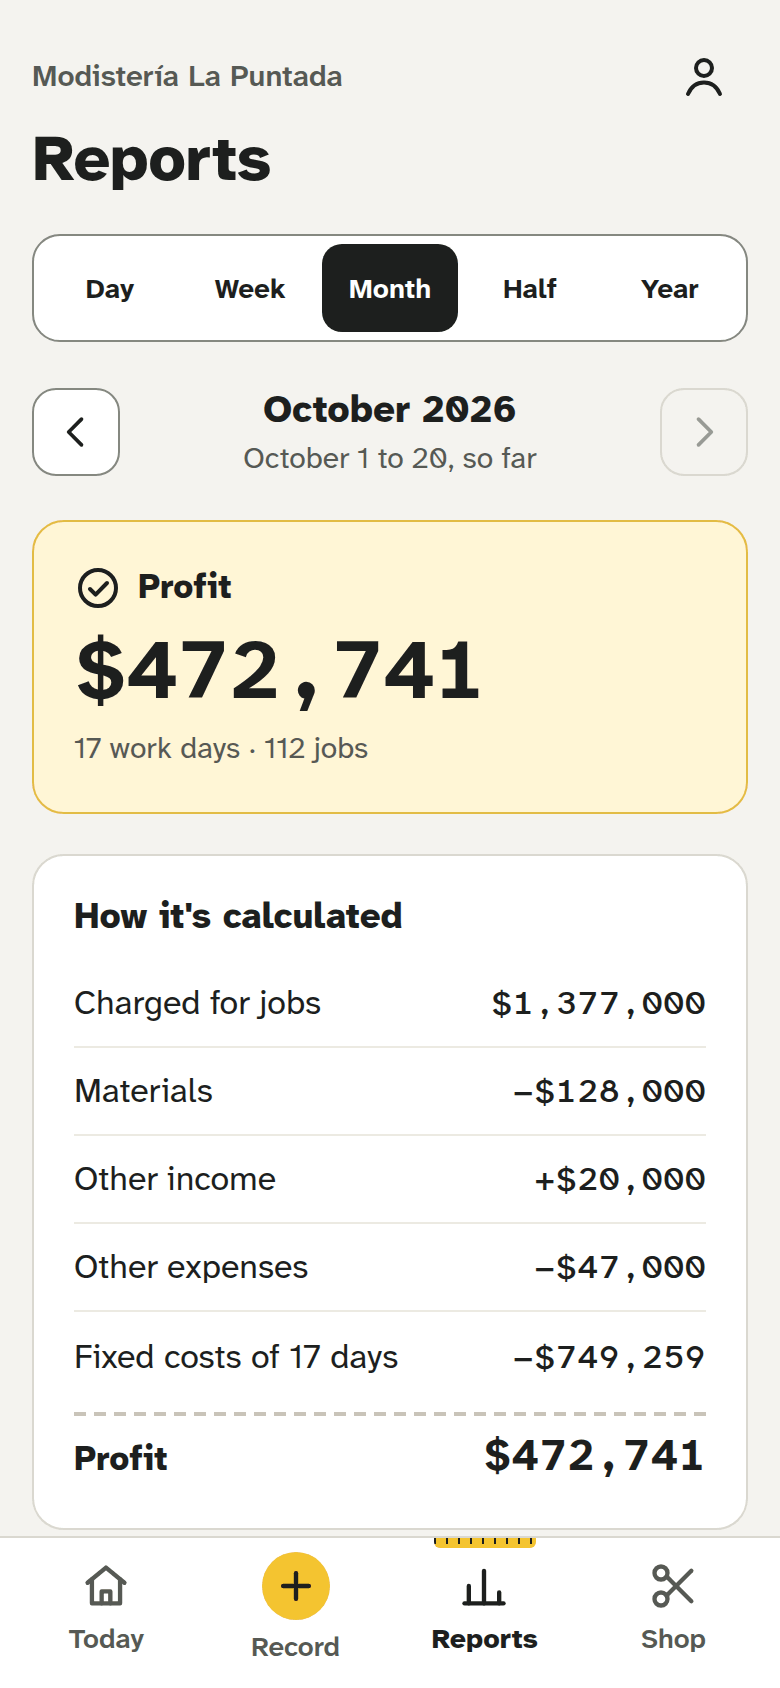
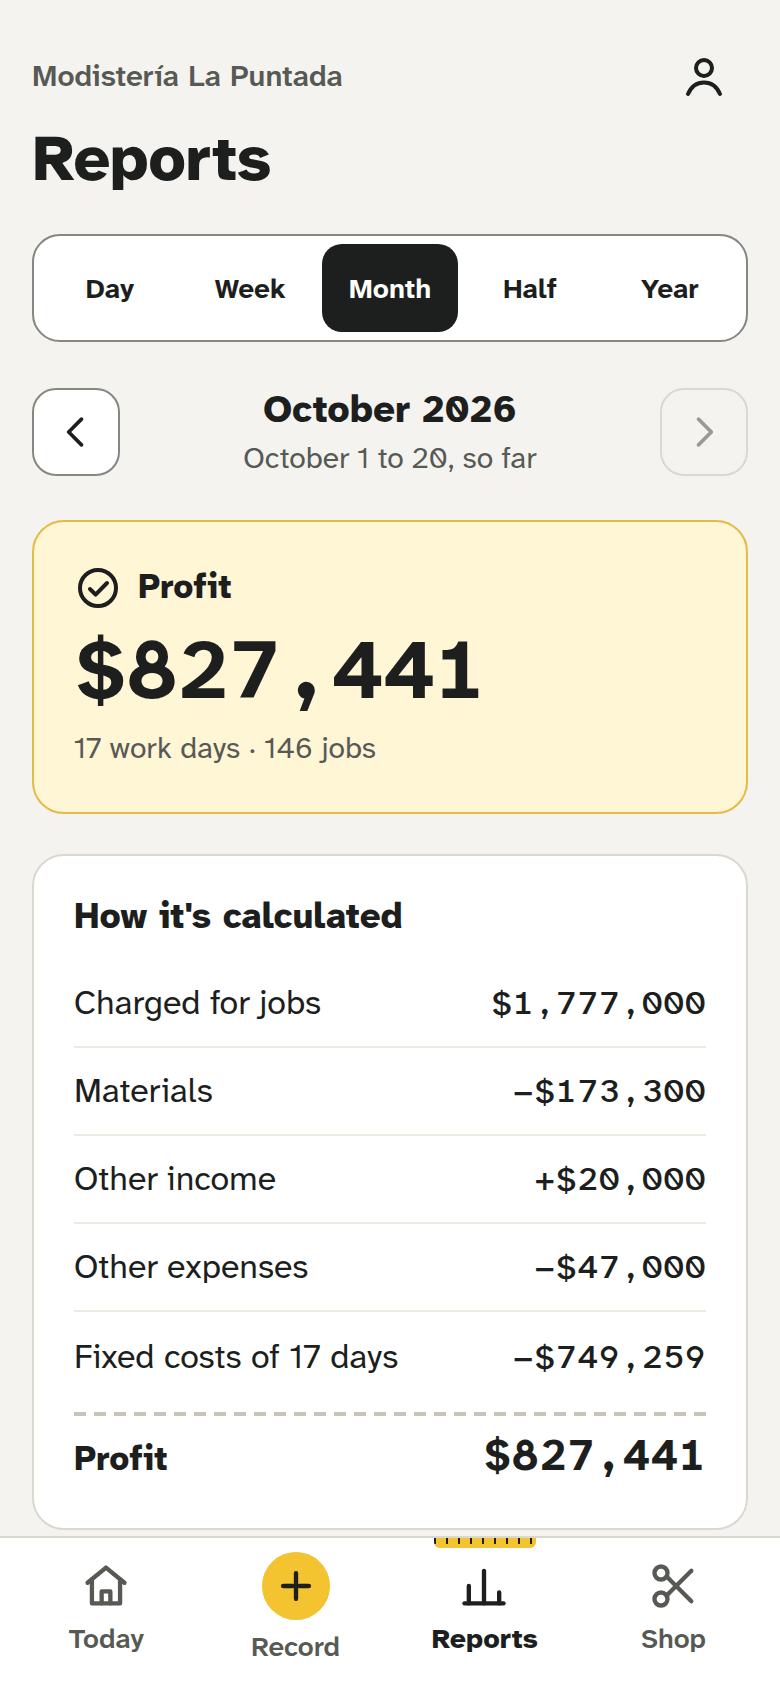
Explain advances in the README, and retake the Reports screenshot their jobs change

diff --git a/README.md b/README.md
@@ -1,11 +1,11 @@
 # Tailor Shop Ledger
 
-A Ruby on Rails app that shows small tailoring and alteration shops whether their work pays. A shop records the services it offers, with their price and material cost; the jobs it charges for, and the orders customers pay for in parts; its fixed costs, occasional expenses and other income. The app turns that into a goal for the day and results by day, week, month, semester and year.
+A Ruby on Rails app that shows small tailoring and alteration shops whether their work pays. A shop records the services it offers, with their price and material cost; the jobs it charges for, the orders customers pay for in parts, and the advances some customers pay up front; its fixed costs, occasional expenses and other income. The app turns that into a goal for the day and results by day, week, month, semester and year.
 
 <p align="center">
   <img src="docs/screenshots/today.png" width="24%" alt="Today: the day's goal on a strip of tape measure, $32,400 made of the $44,074 the fixed costs need today, and what's left to go">
   <img src="docs/screenshots/record.png" width="24%" alt="Record: a job, an order, an expense or other income; here a job's date and its service, picked from the shop's list with its price">
-  <img src="docs/screenshots/reports.png" width="24%" alt="Reports: October so far, a profit of $472,741, and how it's calculated line by line">
+  <img src="docs/screenshots/reports.png" width="24%" alt="Reports: October so far, a profit of $827,441, and how it's calculated line by line">
   <img src="docs/screenshots/shop.png" width="24%" alt="Shop: each service with its price, its materials and what it leaves">
 </p>
 
@@ -28,6 +28,8 @@ The rules are the product. Three of them keep a shop from fooling itself:
 A period's result is what its jobs charged, less their materials, plus other income, less other expenses and the fixed costs of its work days: a profit from 0 up, a loss below.
 
 Work a customer pays for later goes in an order: usually a deposit when they leave it, which covers its materials, and the rest when it's done. Each payment counts the day it comes in, and the order's materials and jobs the day it was left, so a day's figures follow the money that actually came in. Today also lists what customers still owe. An order that's cancelled is deleted, since the deposit goes back.
+
+Some customers, a person or a company, pay a sum up front and bring work until it runs out. That sum never counts, since it's still theirs for work not done yet: each job drawn on it counts the day it's done, like a job on its own, even past the balance, when the customer owes the difference until the next sum covers it. While a job is recorded, the form shows what the balance would be left with, or how much the customer would owe. Today lists each advance with what's left or what's owed.
 
 Changing a service's price never changes the jobs already recorded, and a new amount for a fixed cost applies from a month on, never to the months before it. The full rules are in [docs/plan.md](docs/plan.md).
 

diff --git a/docs/plan.md b/docs/plan.md
@@ -364,7 +364,7 @@ A customer of the first shop pays a sum up front and brings work until it runs o
 - [x] The advance's page: create and edit an advance, and delete one without jobs; add, edit and delete its jobs through the job form, with the balance each one leaves and the warning past it; record, edit and delete its top-ups.
 - [x] On Hoy, "Adelantos"; and an advance's jobs in the day's records, on Hoy and in a day's report.
 - [x] Demo seeds: La Puntada gets an advance with top-ups and jobs across several months, running past its balance once before the next top-up.
-- [ ] README: the rules for advances, and the screenshots they change.
+- [x] README: the rules for advances, and the screenshots they change.
 
 Done when model specs cover a job in an order and an advance at once, two advances for one customer, a balance below 0 and a top-up's dates; query specs show an advance's jobs counting as jobs on their own do and its top-ups never counting; request specs cover isolation; a system spec takes an advance with a top-up and two jobs, the second past the balance with its warning, then a top-up, checking Today after each; and the owner approves the new pages in screenshots at phone and desktop width.
 
